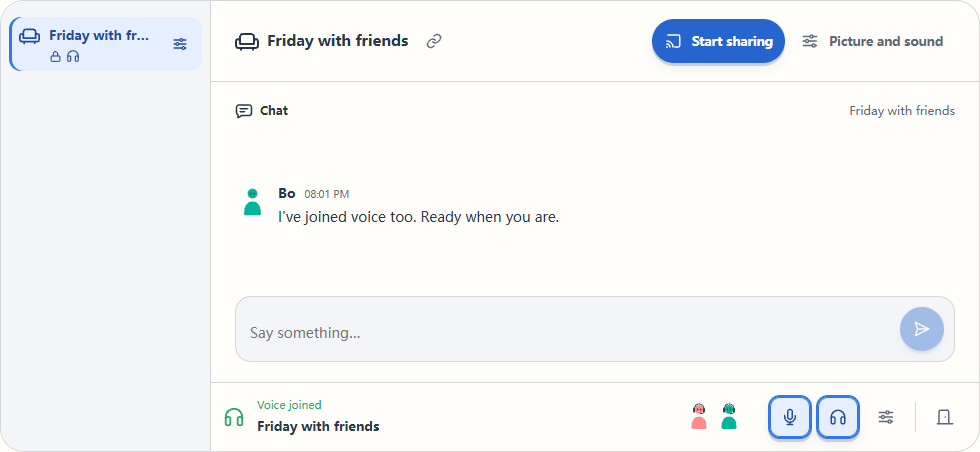
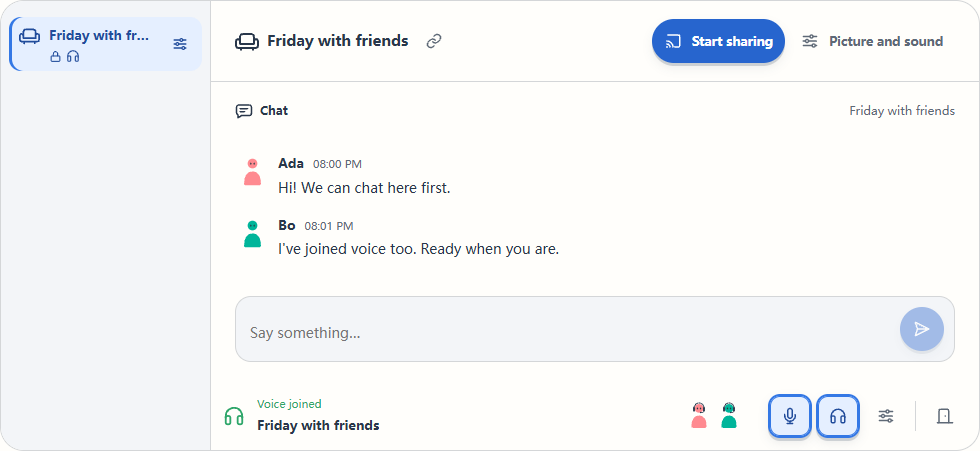
style(channel): clarify workspace controls and message grouping

diff --git a/src/client/pages/channel-preview.css b/src/client/pages/channel-preview.css
@@ -1,17 +1,22 @@
 /* The workspace owns placement; shared controls, palette, cast and motion keep their owners. */
 .c3-app { --c3-content-width: calc(100% - 40px); --c3-companion-width: 320px; --c3-heading-height: 74px; height: 100dvh; min-height: 0; padding-top: 20px; }
 .c3-shell { flex: 1; min-height: 0; width: var(--c3-content-width); margin: 0 auto 24px; display: grid; grid-template-columns: 240px minmax(0, 1fr) var(--c3-companion-width); grid-template-rows: var(--c3-heading-height) minmax(0, 1fr) auto; background: var(--paper); border: 1px solid var(--line); border-radius: 22px; box-shadow: var(--panel-shadow); overflow: clip; container: channel-shell / size; }
-.c3-shell[data-companion="none"] { --c3-companion-width: 200px; }
+.c3-shell[data-companion="none"] { --c3-companion-width: 220px; }
 .c3-shell:not([data-companion="people"]) > .c3-people-panel { display: none; }
 :where(.c3-shell) :is(h1,h2,h3,p) { margin: 0; }
 .c3-shell button { cursor: pointer; }
 .c3-shell button:disabled { cursor: default; }
-.c3-sidebar { grid-column: 1; grid-row: 1 / 3; min-width: 0; min-height: 0; padding-bottom: 12px; background: var(--wall); border-inline-end: 1px solid var(--line); }
+.c3-sidebar { grid-column: 1; grid-row: 1 / 3; min-width: 0; min-height: 0; padding-bottom: 12px; background: var(--wall); }
 .c3-sidebar-browse { height: 100%; min-width: 0; min-height: 0; flex: 1; display: flex; flex-direction: column; gap: 20px; overflow-y: auto; overscroll-behavior: contain; scrollbar-width: thin; }
-.c3-channel-title { display: flex; align-items: center; gap: 8px; min-height: var(--c3-heading-height); padding-inline: 18px; flex: none; border-bottom: 1px solid var(--line); }
-.c3-site-home { flex: 1; min-width: 0; border: 0; background: none; color: var(--ink); text-align: start; padding: 0; }
-.c3-room-navigation, .c3-site-maintenance { padding-inline: 12px; }
-.c3-site-maintenance { margin-top: auto; }
+.c3-channel-title { display: flex; align-items: center; gap: 6px; min-height: var(--c3-heading-height); padding-inline: 14px; flex: none; }
+.c3-site-home { display: flex; align-items: center; justify-content: center; flex: none; width: 36px; height: 44px; border: 0; background: none; color: var(--ink); padding: 0; }
+.c3-site-name { min-width: 0; flex: 1; }
+.c3-site-name > .lr-comic-tip-wrap { display: block; min-width: 0; }
+.c3-site-name strong { display: block; overflow: hidden; white-space: nowrap; text-overflow: ellipsis; font-size: 16px; }
+.c3-site-name .lr-btn { width: 100%; min-width: 0; display: flex; flex-direction: row-reverse; justify-content: space-between; padding-inline: 3px; gap: 4px; color: var(--ink); }
+.c3-site-name .lr-btn .lr-cap { font-size: 16px; margin: 0; min-width: 0; overflow: hidden; text-overflow: ellipsis; }
+.c3-site-name .lr-btn > svg { flex: none; width: 12px; height: 12px; }
+.c3-room-navigation { padding-inline: 12px; }
 .c3-room-voice-members { margin: 4px 0 10px 20px; }
 .c3-room-voice-members:empty { display: none; }
 .c3-room-voice-members .c3-user { padding: 4px 2px; }
@@ -23,17 +28,17 @@
 .c3-site-overview > p { color: var(--muted); line-height: 1.7; margin-bottom: 16px; }
 .c3-overview-rooms { display: grid; grid-template-columns: repeat(auto-fit, minmax(min(220px, 100%), 1fr)); gap: 16px; }
 .c3-overview-rooms .c3-room-item { border: 1px solid var(--line); border-radius: 16px; padding: 12px; }
-.c3-global-tools.lr-top { grid-column: 3; grid-row: 1; display: flex; align-items: center; gap: 6px; width: 100%; min-width: 0; padding: 12px 8px; border-inline-start: 1px solid var(--line); border-bottom: 1px solid var(--line); }
+.c3-global-tools.lr-top { grid-column: 3; grid-row: 1; display: flex; align-items: center; justify-content: flex-end; gap: 6px; width: 100%; min-width: 0; padding: 12px; }
 .c3-global-tools .lr-header-controls { flex: 1; min-width: 0; margin-inline-start: 0; gap: 6px; justify-content: flex-end; }
 .c3-global-tools .lr-leds-label { display: none; }
-.c3-global-tools .lr-leds { min-width: 36px; width: 36px; }
+.c3-global-tools > [role="status"] { flex: none; }
 .c3-mobile-home { display: none; border: 0; padding: 4px; background: transparent; color: var(--ink); }
 .c3-section-label { display: flex; align-items: center; justify-content: space-between; gap: 8px; color: var(--muted); font-size: 12px; font-weight: 650; min-height: 32px; padding-inline: 10px; }
 .c3-rooms { display: grid; gap: 5px; margin-top: 8px; }
 .c3-room-list-empty { padding: 16px 10px; color: var(--muted); font-size: 12px; line-height: 1.7; }
 .c3-room-navigation.is-empty > .c3-section-label { flex-wrap: wrap; gap: 12px; }
 .c3-pane-back, .c3-pane-navigation { display: none; }
-.c3-personal { grid-column: 1; grid-row: 3; min-width: 0; border-top: 1px solid var(--line); border-inline-end: 1px solid var(--line); }
+.c3-personal { grid-column: 1; grid-row: 3; min-width: 0; background: var(--wall); padding-top: 8px; }
 .c3-identity { display: flex; align-items: center; gap: 8px; padding: 12px; }
 .c3-identity > svg { flex: none; width: 32px; height: 40px; }
 .c3-identity > div { flex: 1; min-width: 0; }
@@ -46,7 +51,7 @@
 .c3-voice-entry strong { display: block; overflow: hidden; text-overflow: ellipsis; white-space: nowrap; font-size: 12px; }
 .c3-voice-entry > .lr-comic-tip-wrap { flex: none; }
 .c3-main { display: contents; }
-.c3-room-heading { grid-column: 2; grid-row: 1; display: flex; align-items: center; flex-wrap: wrap; gap: 8px 16px; min-width: 0; min-height: var(--c3-heading-height); padding: 12px 20px; border-bottom: 1px solid var(--line); }
+.c3-room-heading { grid-column: 2; grid-row: 1; display: flex; align-items: center; flex-wrap: wrap; gap: 8px 16px; min-width: 0; min-height: var(--c3-heading-height); padding: 12px 20px; }
 .c3-room-name { min-width: 0; display: flex; align-items: center; gap: 10px; flex: 1 1 16ch; }
 .c3-room-name .c3-room-title { min-width: 0; }
 .c3-room-name h2 { min-width: 0; font-size: 19px; letter-spacing: -.02em; line-height: 1.3; overflow: hidden; text-overflow: ellipsis; white-space: nowrap; }
@@ -67,21 +72,21 @@
 .c3-workspace { flex: 1; min-width: 0; min-height: 0; display: grid; grid-template-columns: minmax(0, 1fr); grid-template-rows: minmax(0, 1fr); }
 .c3-workspace[hidden] { display: none; }
 .c3-workspace > .c3-monitor, .c3-workspace :is(.c3-conversation, .c3-locked-room) { grid-column: 1; grid-row: 1; min-height: 0; }
-.c3-chat-panel { grid-column: 3; grid-row: 2 / 4; display: flex; min-width: 0; min-height: 0; border-inline-start: 1px solid var(--line); }
+.c3-chat-panel { grid-column: 3; grid-row: 2 / 4; display: flex; min-width: 0; min-height: 0; }
 .c3-chat-panel .c3-conversation { flex: 1; min-width: 0; min-height: 0; padding: 0 0 16px; }
-.c3-chat-panel .c3-chat-heading { flex: none; min-height: var(--c3-heading-height); padding: 12px 16px; border-bottom: 1px solid var(--line); }
+.c3-chat-panel .c3-chat-heading { flex: none; min-height: 52px; padding: 8px 16px; }
 .c3-chat-panel .c3-conversation > :not(.c3-chat-heading) { margin-inline: 16px; }
 .c3-shell:not([data-companion="chat"]) > .c3-chat-panel { display: none; }
-.c3-workspace.has-screens > .c3-monitor { container: channel-stage / size; background: var(--wall); }
+.c3-workspace.has-screens > .c3-monitor:not(.is-theater) { container: channel-stage / size; background: var(--wall); border-radius: 20px; margin: 0 8px 0 12px; }
 .c3-workspace:not(.has-screens):has(> .c3-monitor) { grid-template-rows: auto minmax(0, 1fr); }
 .c3-workspace:not(.has-screens) > .c3-monitor { max-height: 180px; border-bottom: 1px solid var(--line); }
 .c3-workspace:not(.has-screens):has(> .c3-monitor) :is(.c3-conversation, .c3-locked-room) { grid-row: 2; }
-.c3-room-presence { grid-column: 2; grid-row: 3; min-width: 0; display: grid; grid-template-columns: minmax(var(--control-dense-size), 1fr) minmax(0, 560px) minmax(var(--control-dense-size), 1fr); align-items: center; gap: 12px; padding: 8px 20px; border-top: 1px solid var(--line); }
+.c3-room-presence { grid-column: 2; grid-row: 3; min-width: 0; display: grid; grid-template-columns: minmax(var(--control-dense-size), 1fr) minmax(0, 560px) minmax(var(--control-dense-size), 1fr); align-items: center; gap: 12px; padding: 8px 20px; }
 .c3-room-presence[data-empty] { display: none; }
 .c3-room-presence .c3-room-company { grid-column: 2; width: 100%; }
 .c3-room-presence > .lr-comic-tip-wrap { grid-column: 3; justify-self: end; }
 .c3-room-presence > .lr-comic-tip-wrap .lr-cap { display: none; }
-.c3-voice-dock { flex: none; display: flex; flex-wrap: wrap; align-items: center; gap: 8px 12px; padding: 12px; border-top: 1px solid var(--line); }
+.c3-voice-dock { flex: none; display: flex; flex-wrap: wrap; align-items: center; gap: 8px 12px; padding: 12px; }
 .c3-voice-dock > svg { color: var(--live); flex: none; }
 .c3-voice-destination { min-width: 0; flex: 1 1 8ch; }
 .c3-voice-destination small { display: block; color: var(--live); font-size: 11px; margin-bottom: 2px; white-space: nowrap; }
@@ -106,8 +111,8 @@
 .c3-notice > svg { flex: none; }
 .c3-notice.is-error > svg { color: var(--danger); }
 .c3-app > .c3-notice { width: var(--c3-content-width); margin: 0 auto 12px; background: var(--paper); }
-.c3-people-panel { grid-column: 3; grid-row: 2 / 4; display: flex; flex-direction: column; min-width: 0; min-height: 0; padding-inline: 12px; background: var(--wall); border-inline-start: 1px solid var(--line); }
-.c3-people-panel > header { display: flex; align-items: center; justify-content: space-between; gap: 10px; flex: none; min-height: var(--c3-heading-height); border-bottom: 1px solid var(--line); }
+.c3-people-panel { grid-column: 3; grid-row: 2 / 4; display: flex; flex-direction: column; min-width: 0; min-height: 0; padding-inline: 12px; }
+.c3-people-panel > header { display: flex; align-items: center; justify-content: space-between; gap: 10px; flex: none; min-height: 52px; }
 .c3-people-panel h2 { display: flex; align-items: baseline; gap: 8px; font-size: 14px; font-weight: 650; }
 .c3-people-panel h2 > span { color: var(--muted); font-size: 11px; font-weight: 400; }
 .c3-people-body { flex: 1; min-height: 0; overflow-y: auto; padding-bottom: 14px; overscroll-behavior: contain; scrollbar-width: thin; }
@@ -135,6 +140,13 @@
 @container channel-shell (max-width: 1100px) {
   .c3-room-heading { gap: 8px; padding: 12px; }
 }
+@container channel-shell (max-width: 600px) {
+  .c3-room-heading { display: grid; grid-template-columns: minmax(0, 1fr) auto; gap: 4px 8px; }
+  .c3-room-name { grid-column: 1; grid-row: 1; }
+  .c3-room-tools { grid-column: 2; grid-row: 1; }
+  .c3-room-actions { grid-column: 1 / -1; grid-row: 2; justify-self: end; }
+  .c3-room-actions:empty { display: none; }
+}
 @container channel-room (max-height: 680px) {
   .c3-workspace.has-screens .c3-monitor { --stage-padding: 10px; gap: 8px; }
   .c3-workspace .c3-conversation { padding: 8px 12px; gap: 8px; }
@@ -143,7 +155,7 @@
   .c3-app { --c3-content-width: calc(100% - 24px); }
 }
 .c3-shell[data-sidebars="overlay"] {
-  grid-template-columns: 230px minmax(0, 1fr) 200px;
+  grid-template-columns: 230px minmax(0, 1fr) 220px;
   .c3-room-heading { grid-column: 1 / 3; }
   .c3-main-body, & > :is(.c3-sidebar, .c3-people-panel, .c3-chat-panel) { grid-column: 1 / 4; grid-row: 2; }
   .c3-room-presence { grid-column: 2 / 4; }

diff --git a/src/client/channel/components/ChannelConversation.tsx b/src/client/channel/components/ChannelConversation.tsx
@@ -166,9 +166,14 @@ export function ChannelConversation({ roomId, roomName, roomIcon, entry, message
         </div>}
         {messages.map((message, index) => {
           const previous = messages[index - 1];
-          const grouped = previous?.userId === message.userId && message.time - previous.time < 120_000;
+          const date = new Date(message.time), previousDate = previous && new Date(previous.time);
+          const newDay = !!previousDate && (date.getFullYear() !== previousDate.getFullYear()
+            || date.getMonth() !== previousDate.getMonth() || date.getDate() !== previousDate.getDate());
+          const elapsed = previous ? message.time - previous.time : 0;
+          const grouped = !!previous && !newDay && previous.userId === message.userId && elapsed >= 0 && elapsed < 120_000;
           const name = users.find(user => user.id === message.userId)?.name ?? (zh ? "用户" : "User");
           return <MessageRow key={message.id} roomId={roomId} message={message} grouped={grouped} name={name}
+            dateLabel={newDay ? date.toLocaleDateString(zh ? "zh-CN" : "en", { dateStyle: "long" }) : undefined}
             attachments={attachments} available={available} interaction={interaction} />;
         })}
       </div>
@@ -208,17 +213,20 @@ export function ChannelConversation({ roomId, roomName, roomIcon, entry, message
   </section>;
 }
 
-const MessageRow = memo(function MessageRow({ roomId, message, grouped, name, attachments, available, interaction }: {
-  roomId: string; message: ChannelMessage; grouped: boolean; name: string;
+const MessageRow = memo(function MessageRow({ roomId, message, grouped, name, dateLabel, attachments, available, interaction }: {
+  roomId: string; message: ChannelMessage; grouped: boolean; name: string; dateLabel?: string;
   attachments: ChannelAttachments; available: boolean; interaction: RoomInteractionSession | null;
 }) {
   const { lang } = useCopy();
-  return <article className={`c3-message c3-reaction-message${grouped ? " is-continuation" : ""}`} data-message-id={message.id}>
+  return <>
+    {dateLabel && <div className="c3-message-date"><time dateTime={new Date(message.time).toISOString()}>{dateLabel}</time></div>}
+    <article className={`c3-message c3-reaction-message${grouped ? " is-continuation" : ""}`} data-message-id={message.id}>
     {!grouped && <PawnSvg color={participantColor(message.userId)} identity={message.userId} />}
     <div className="c3-message-body">{!grouped && <div className="c3-message-meta"><strong>{name}</strong>
       <time dateTime={new Date(message.time).toISOString()}>{new Date(message.time).toLocaleTimeString(lang === "zh" ? "zh-CN" : "en", { hour: "2-digit", minute: "2-digit" })}</time>
     </div>}{message.text && <p>{message.text}</p>}
     {message.attachments.map(file => <ChannelAttachment key={file.id} roomId={roomId} messageSeq={message.seq} file={file} client={attachments} />)}
     <ChannelContentReactions reactions={message.reactions} session={interaction} target={{ messageSeq: message.seq }} disabled={!available} /></div>
-  </article>;
+    </article>
+  </>;
 });

diff --git a/src/client/channel/components/channel-conversation.css b/src/client/channel/components/channel-conversation.css
@@ -9,7 +9,7 @@
 .c3-message-content { display: flow-root; min-height: 100%; }
 .c3-message-content:has(> .c3-room-start.is-empty) { display: flex; flex-direction: column; }
 .c3-conversation-loading { display: flex; align-items: center; gap: 8px; color: var(--muted); font-size: 12px; }
-.c3-room-start { display: flex; align-items: center; gap: 15px; margin: 24px 0 36px; padding-bottom: 22px; border-bottom: 1px solid var(--line); }
+.c3-room-start { display: flex; align-items: center; gap: 15px; margin: 16px 0 24px; }
 .c3-room-start-mark { display: grid; place-items: center; flex: none; width: 62px; height: 62px; border: 1px solid var(--line); border-radius: 20px; background: var(--wall); color: var(--couch-dark); }
 .c3-room-start h3 { margin: 0; font-size: 21px; line-height: 1.4; font-weight: 650; letter-spacing: -.025em; overflow-wrap: anywhere; text-wrap: balance; }
 .c3-room-start p { max-width: 34ch; margin: 9px 0 0; color: var(--muted); font-size: 13px; line-height: 1.8; text-wrap: pretty; }
@@ -30,15 +30,20 @@
   .c3-conversation { padding: 16px 14px; gap: 12px; }
   .c3-room-start h3 { font-size: 19px; }
 }
-.c3-message { display: flex; align-items: flex-start; gap: 11px; margin: 20px 0; }
+.c3-message { display: flex; align-items: flex-start; gap: 11px; margin: 16px 0 0; }
 .c3-message:first-child { margin-top: 8px; }
 .c3-message > svg { width: 29px; height: 36px; flex: none; }
 .c3-message-body { flex: 1; min-width: 0; }
 .c3-message-meta { display: flex; align-items: baseline; gap: 9px; flex-wrap: wrap; }
-.c3-message-meta strong { font-size: 13px; font-weight: 700; }
-.c3-message-meta time { font-size: 10px; color: var(--muted); }
+.c3-message-meta strong { font-size: 13px; font-weight: 650; }
+.c3-message-meta time { font-size: 11px; color: var(--muted); font-variant-numeric: tabular-nums; }
 .c3-message p { white-space: pre-wrap; font-size: 14px; line-height: 1.65; margin-top: 3px; }
-.c3-message.is-continuation { margin-top: -14px; padding-inline-start: 40px; }
+.c3-message.is-continuation { margin-top: 4px; padding-inline-start: 40px; }
+.c3-message.is-continuation p { margin-top: 0; }
+.c3-message-date { display: flex; align-items: center; gap: 12px; margin-top: 24px; color: var(--muted); font-size: 11px; line-height: 1.5; }
+.c3-message-date::before, .c3-message-date::after { content: ""; flex: 1; border-top: 1px solid var(--line); }
+.c3-message-date > time { flex: none; }
+.c3-message-date + .c3-message { margin-top: 12px; }
 .c3-composer { display: flex; align-items: flex-end; gap: 10px; border: 1px solid var(--line); background: var(--wall); border-radius: 16px; padding: 10px; flex: none; }
 .c3-composer:focus-within { border-color: var(--action); }
 .c3-history-more { display: flex; justify-content: center; margin-bottom: 14px; }

diff --git a/src/client/pages/ChannelPreviewPage.tsx b/src/client/pages/ChannelPreviewPage.tsx
@@ -1,6 +1,6 @@
 import { useCallback, useEffect, useRef, useState, type ReactNode } from "react";
 import { HeaderControls, LedStrip } from "../components/living/Header";
-import { BrandLockup, BrandMark } from "../components/living/BrandMark";
+import { BrandMark } from "../components/living/BrandMark";
 import { Btn, Cap } from "../components/living/primitives";
 import { PawnSvg } from "../components/living/Pawn";
 import { participantColor } from "../components/living/participant-color";
@@ -163,7 +163,9 @@ export function ChannelRoomPage({ channel, selected, onSelect, appControl }: {
       <aside id="c3-room-list" className="c3-sidebar" aria-label={copy("房间", "Rooms")}>
         <div className="c3-sidebar-browse">
         <div className="c3-channel-title">
-          <button className="c3-site-home" id="c3-room-list-heading" type="button" aria-label={copy("本站房间总览", "Rooms on this site")} onClick={() => selectRoom("")}><BrandLockup size={32} motion="once" /></button>
+          <button className="c3-site-home" id="c3-room-list-heading" type="button" aria-label={copy("本站房间总览", "Rooms on this site")} onClick={() => selectRoom("")}><BrandMark size={30} motion="once" /></button>
+          <div className="c3-site-name">{self?.id === state?.channel.ownerId ? <ChannelSiteSettings channel={channel} />
+            : <Tooltip overflow={{ text: state?.channel.name ?? "Piik", selector: "strong" }}><strong>{state?.channel.name ?? "Piik"}</strong></Tooltip>}</div>
           <Btn icon="sidebar" size="dense" quiet title={{ text: copy("收起房间列表", "Collapse room list") }}
             controls="c3-room-list" expanded={!sharingView} onClick={() => { if (sidebarsInline && !sharingView) toggleSharingView(); setMobilePane("room"); }} />
         </div>
@@ -185,7 +187,6 @@ export function ChannelRoomPage({ channel, selected, onSelect, appControl }: {
           </nav>
           {state && !rooms.length && <p className="c3-room-list-empty">{copy("暂无可进入的房间", "No rooms available yet")}</p>}
         </div>
-        <div className="c3-site-maintenance"><ChannelSiteSettings channel={channel} /></div>
         </div>
       </aside>
       <div className="c3-personal"><div ref={voiceSlot} className="c3-room-slot" />

diff --git a/src/client/components/living/room-interactions.css b/src/client/components/living/room-interactions.css
@@ -80,13 +80,15 @@
 .lr-quick-reactions-heading > .lr-comic-tip-wrap { flex: none; }
 .lr-quick-reactions .lr-person-menu-portrait { width: 24px; height: 30px; }
 .lr-quick-reactions .lr-person-menu-portrait .lr-person { width: 20px; height: 26px; }
-.lr-reaction-grid { display: grid; grid-template-columns: repeat(14, minmax(0, 1fr)); gap: 4px; }
+.lr-reaction-grid { display: grid; grid-template-columns: repeat(4, minmax(0, 1fr)); gap: 6px; justify-items: center; }
 .lr-reaction-grid.is-compact { display: flex; align-items: center; }
-.lr-reaction-grid button { min-width: 0; min-height: var(--control-compact-size); cursor: pointer; touch-action: manipulation; }
+.lr-reaction-grid > .lr-comic-tip-wrap { display: flex; align-items: center; justify-content: center; }
+.lr-reaction-grid.is-compact > .lr-comic-tip-wrap { flex: 1; }
+.lr-reaction-grid button { width: var(--control-compact-size); height: var(--control-compact-size); min-width: 0; cursor: pointer; touch-action: manipulation; }
 .lr-reaction-grid.is-compact button { flex: 1; width: var(--control-compact-size); height: var(--control-compact-size); margin: 0; padding: 0; }
-.lr-reaction-option { grid-column: span 2; padding: 4px 0; font-size: 26px; line-height: 1; }
-.lr-reaction-prop { grid-column: span 7; display: grid; place-items: center; height: auto; margin-top: 6px; padding: 6px 4px; gap: 4px; border-width: 1px; border-radius: 14px; background: var(--wall); font-size: 12px; font-weight: 600; line-height: 1.3; white-space: normal; text-wrap: balance; }
-.lr-reaction-prop > svg { width: 26px; height: 26px; }
+.lr-reaction-option { padding: 4px; font-size: 26px; line-height: 1; }
+.lr-reaction-option > svg { width: 32px; height: 32px; }
+.lr-reaction-option.is-prop { background: var(--wall); }
 .lr-reaction-grid button[aria-disabled="true"] { opacity: .4; cursor: default; }
 .lr-person-menu-details-hint { width: 100%; }
 .lr-person-menu-details { display: flex; align-items: center; justify-content: center; gap: 8px; width: 100%; min-height: 40px; padding: 8px; margin-top: 8px; border: 0; border-radius: 12px; background: transparent; color: var(--muted); font-size: 12px; cursor: pointer; }

diff --git a/src/client/channel/components/channel-message-reactions.css b/src/client/channel/components/channel-message-reactions.css
@@ -1,15 +1,19 @@
 .c3-reaction-message .c3-message-body { position: relative; flex: 0 1 auto; max-width: 100%; }
+.c3-reaction-message .c3-message-meta { padding-inline-end: 40px; }
+.c3-reaction-message.is-continuation .c3-message-body { padding-inline-end: 40px; }
 .c3-message-reactions { position: relative; display: flex; flex-wrap: wrap; align-items: center; gap: 5px; }
 .c3-message-reactions:has(.c3-message-reaction) { margin-top: 7px; }
 .c3-message-reaction.lr-chip { min-height: 28px; padding: 3px 9px; border-width: 1px; border-radius: 9px; font-size: 12px; }
+.c3-message-reaction > :first-child { display: inline-grid; place-items: center; width: 20px; height: 20px; font-size: 17px; line-height: 1; }
 .c3-message-action.lr-comic-tip-wrap { display: inline-flex; }
+.c3-message-reactions:not(:has(.c3-message-reaction)):not(.is-source) { height: 0; position: static; }
+.c3-message-reactions:not(:has(.c3-message-reaction)):not(.is-source) .c3-message-action { position: absolute; inset-inline-end: 0; top: -6px; }
 .c3-message-reactions:has(.c3-message-reaction) .c3-message-action { position: static; }
 .c3-add-reaction.lr-btn { --button-size: 29px; --button-padding: 4px; min-width: 32px; gap: 0; opacity: 0; pointer-events: none; }
 .c3-add-reaction > .lr-glyph:last-child { width: 10px; height: 10px; }
 .c3-reaction-message:is(:hover, :focus-within) > div > .c3-message-reactions .c3-add-reaction { opacity: 1; pointer-events: auto; }
 .c3-message-reaction-menu { position: fixed; inset: auto; margin: 0; width: 286px; max-width: calc(100vw - 16px); padding: 12px; border-radius: 17px; }
 .c3-message-reaction-menu > strong { display: block; font-size: 12px; margin: 0 3px 9px; }
-.c3-message-reaction-menu .lr-reaction-option { font-size: 23px; }
 .c3-message-reactions.is-source .c3-add-reaction { opacity: 1; pointer-events: auto; }
 .c3-message-reactions.is-source .c3-add-reaction { min-width: var(--control-dense-size); }
 .c3-message-reactions.is-source .c3-message-action { position: static; }

diff --git a/src/client/ui/icons.tsx b/src/client/ui/icons.tsx
@@ -96,6 +96,7 @@ const PATHS = {
   theaterExit: { body: (<><rect pathLength={1} x="2" y="4" width="20" height="16" rx="2"/><rect pathLength={1} x="6" y="8" width="12" height="8" rx="1"/></>) },
   speaker: { body: (<><path pathLength={1} d="M4 9v6h4l5 4V5L8 9H4Z"/><path pathLength={1} d="M16 9a4.2 4.2 0 0 1 0 6M18.5 6.5a8 8 0 0 1 0 11"/></>) },
   sliders: { body: (<><path pathLength={1} d="M3 6h9m4 0h5M3 12h3m4 0h11M3 18h12m4 0h2"/><circle pathLength={1} cx="14" cy="6" r="2"/><circle pathLength={1} cx="8" cy="12" r="2"/><circle pathLength={1} cx="17" cy="18" r="2"/></>) },
+  more: { body: (<><circle pathLength={1} cx="5" cy="12" r="1.5" fill="currentColor" stroke="none"/><circle pathLength={1} cx="12" cy="12" r="1.5" fill="currentColor" stroke="none"/><circle pathLength={1} cx="19" cy="12" r="1.5" fill="currentColor" stroke="none"/></>) },
   mountain: { body: (<><path pathLength={1} d="m3 18 5.5-8.5L13 15l3.5-5L21 18H3Z"/></>) },
   balance: { body: (<><path pathLength={1} d="M12 4v16m-5 0h10"/><path pathLength={1} d="m12 6-6 1.5L3.5 13a3.1 3.1 0 0 0 5 0L6 7.5M12 6l6 1.5 2.5 5.5a3.1 3.1 0 0 1-5 0L18 7.5"/></>) },
   branch: { body: (<><circle pathLength={1} cx="6" cy="6" r="2.5"/><circle pathLength={1} cx="6" cy="18" r="2.5"/><circle pathLength={1} cx="18" cy="8" r="2.5"/><path pathLength={1} d="M6 8.5v7M6 13c5 0 5.5-2 9.3-3.2"/></>) },

diff --git a/src/client/channel/components/ChannelSiteSettings.tsx b/src/client/channel/components/ChannelSiteSettings.tsx
@@ -1,5 +1,6 @@
 import { useId, useState } from "react";
 import { Btn } from "../../components/living/primitives";
+import { Tooltip } from "../../components/living/Tooltip";
 import { useCopy } from "../../ui/copy";
 import type { ChannelController } from "../types";
 import type { DomainSettings } from "../protocol";
@@ -34,8 +35,10 @@ export function ChannelSiteSettings({ channel }: { channel: ChannelController })
   ] as const;
   if (!owner) return null;
   return <>
-    <Btn icon="sliders" size="dense" quiet title={{ text: title }} cap={{ text: title }} expanded={open} disabled={disabled}
-      onClick={() => { resetDraft(current); setTask("site"); setOpen(true); }} />
+    <Tooltip overflow={{ text: current?.name ?? title, selector: ".lr-cap" }} disabled={open}>
+      <Btn icon="chevron" size="dense" quiet title={{ text: title }} cap={{ text: current?.name ?? title }} expanded={open} disabled={disabled}
+        onClick={() => { resetDraft(current); setTask("site"); setOpen(true); }} />
+    </Tooltip>
     {open && <ChannelSettingsDialog title={current?.name ?? title} caption={current ? title : undefined} error={error} onClose={close}>
       <div className="c3-settings-body">
         <ChannelSettingsTabs<typeof task> id={id} label={title} tasks={tasks} selected={task} onSelect={setTask} />

diff --git a/src/client/components/living/RoomReactionPicker.tsx b/src/client/components/living/RoomReactionPicker.tsx
@@ -54,14 +54,13 @@ export function RoomReactionGrid({ reactionIds, canSend, onSend, compact = false
   onSend: (reaction: ReactionId) => void;
   compact?: boolean;
 }) {
-  const { t, vis } = useCopy();
+  const { t } = useCopy();
   return <div className={`lr-reaction-grid${compact ? " is-compact" : ""}`}>
-    {reactionIds.map(reaction => <button key={reaction} type="button"
-      className={isThrow(reaction) ? `lr-btn lr-reaction-prop${compact ? " is-compact" : ""}` : "lr-btn is-compact is-quiet lr-reaction-option"}
+    {reactionIds.map(reaction => <Tooltip key={reaction} kind="hint-reaction-picker" text={t(`interaction.reaction.${reaction}`)}><button type="button"
+      className={`lr-btn is-compact is-quiet lr-reaction-option${isThrow(reaction) ? " is-prop" : ""}`}
       aria-label={t(`interaction.reaction.${reaction}`)} aria-disabled={!canSend}
       onClick={() => { if (canSend) onSend(reaction); }}>
       <ReactionIcon reaction={reaction} />
-      {isThrow(reaction) && !vis && !compact && <span>{t(`interaction.reaction.${reaction}`)}</span>}
-    </button>)}
+    </button></Tooltip>)}
   </div>;
 }

diff --git a/src/client/channel/components/channel-stage.css b/src/client/channel/components/channel-stage.css
@@ -54,11 +54,12 @@
 .c3-monitor-wait[data-failed] > svg { color: var(--danger); }
 /* Theater changes the existing stage's layout; every subscription stays mounted. */
 .c3-app:has(.c3-monitor.is-theater) .c3-shell { visibility: hidden; }
+.c3-shell:has(.c3-monitor.is-theater) { container-type: normal; }
 .c3-app:has(.c3-monitor.is-theater) .lr-floating-panel { visibility: visible; }
 .c3-main-body:has(.c3-monitor.is-theater) { container-type: normal; }
 .c3-monitor.is-theater { position: fixed; inset: 0; z-index: 20; gap: 0; padding: 0; background: var(--stage, var(--wall-2)); overflow: hidden; visibility: visible; }
 .c3-monitor.is-theater > .c3-monitor-directory { display: none; }
-.c3-monitor.is-theater > .c3-monitor-heading { padding: 8px 12px; }
+.c3-monitor.is-theater > .c3-monitor-heading { padding: 8px 12px; background: var(--paper); }
 .c3-monitor.is-theater .c3-theater-source { display: flex; }
 .c3-monitor.is-theater .c3-monitor-grid { display: block; flex: 1; min-height: 0; height: auto; }
 .c3-monitor.is-theater .c3-monitor-tile:not(.is-focused) { display: none; }

diff --git a/src/client/components/living/Header.tsx b/src/client/components/living/Header.tsx
@@ -185,7 +185,7 @@ export function HeaderControls({ diagnosticControl, appControl }: { diagnosticCo
     <div ref={controls} className={`lr-top-right lr-header-controls${compact ? " is-overflow" : ""}`}>
       {appControl}
       {compact && <span ref={trigger} className="lr-header-more">
-        <Btn icon="sliders" title="header.more" hint="hint-advanced" size="compact" popoverTarget={id} controls={id} expanded={open} />
+        <Btn icon="more" title="header.more" hint="hint-advanced" size="compact" quiet popoverTarget={id} controls={id} expanded={open} />
       </span>}
       <div ref={options} id={id} popover={compact ? "auto" : undefined} role={compact ? "dialog" : undefined}
         aria-label={compact ? t("header.more") : undefined}

diff --git a/src/client/styles.css b/src/client/styles.css
@@ -118,6 +118,8 @@ ul { margin: 0; padding: 0; list-style: none; }
 .lr-top-right { display: inline-flex; gap: 10px; align-items: center; }
 .lr-top > .lr-top-right { margin-left: auto; min-width: 0; flex: none; justify-content: flex-end; }
 .lr-header-controls { flex: none; }
+.lr-header-controls.is-overflow .lr-btn.is-compact:not([popover] .lr-btn) { width: var(--control-compact-size); padding: 0; }
+.lr-header-controls.is-overflow .lr-cap:not([popover] .lr-cap) { display: none; }
 .lr-header-options:not([popover]), .lr-header-options:not([popover]) > .lr-header-settings { display: contents; }
 .lr-header-more { display: inline-flex; }
 .lr-header-options:is(:popover-open, .\:popover-open) { display: grid; gap: 16px; }
